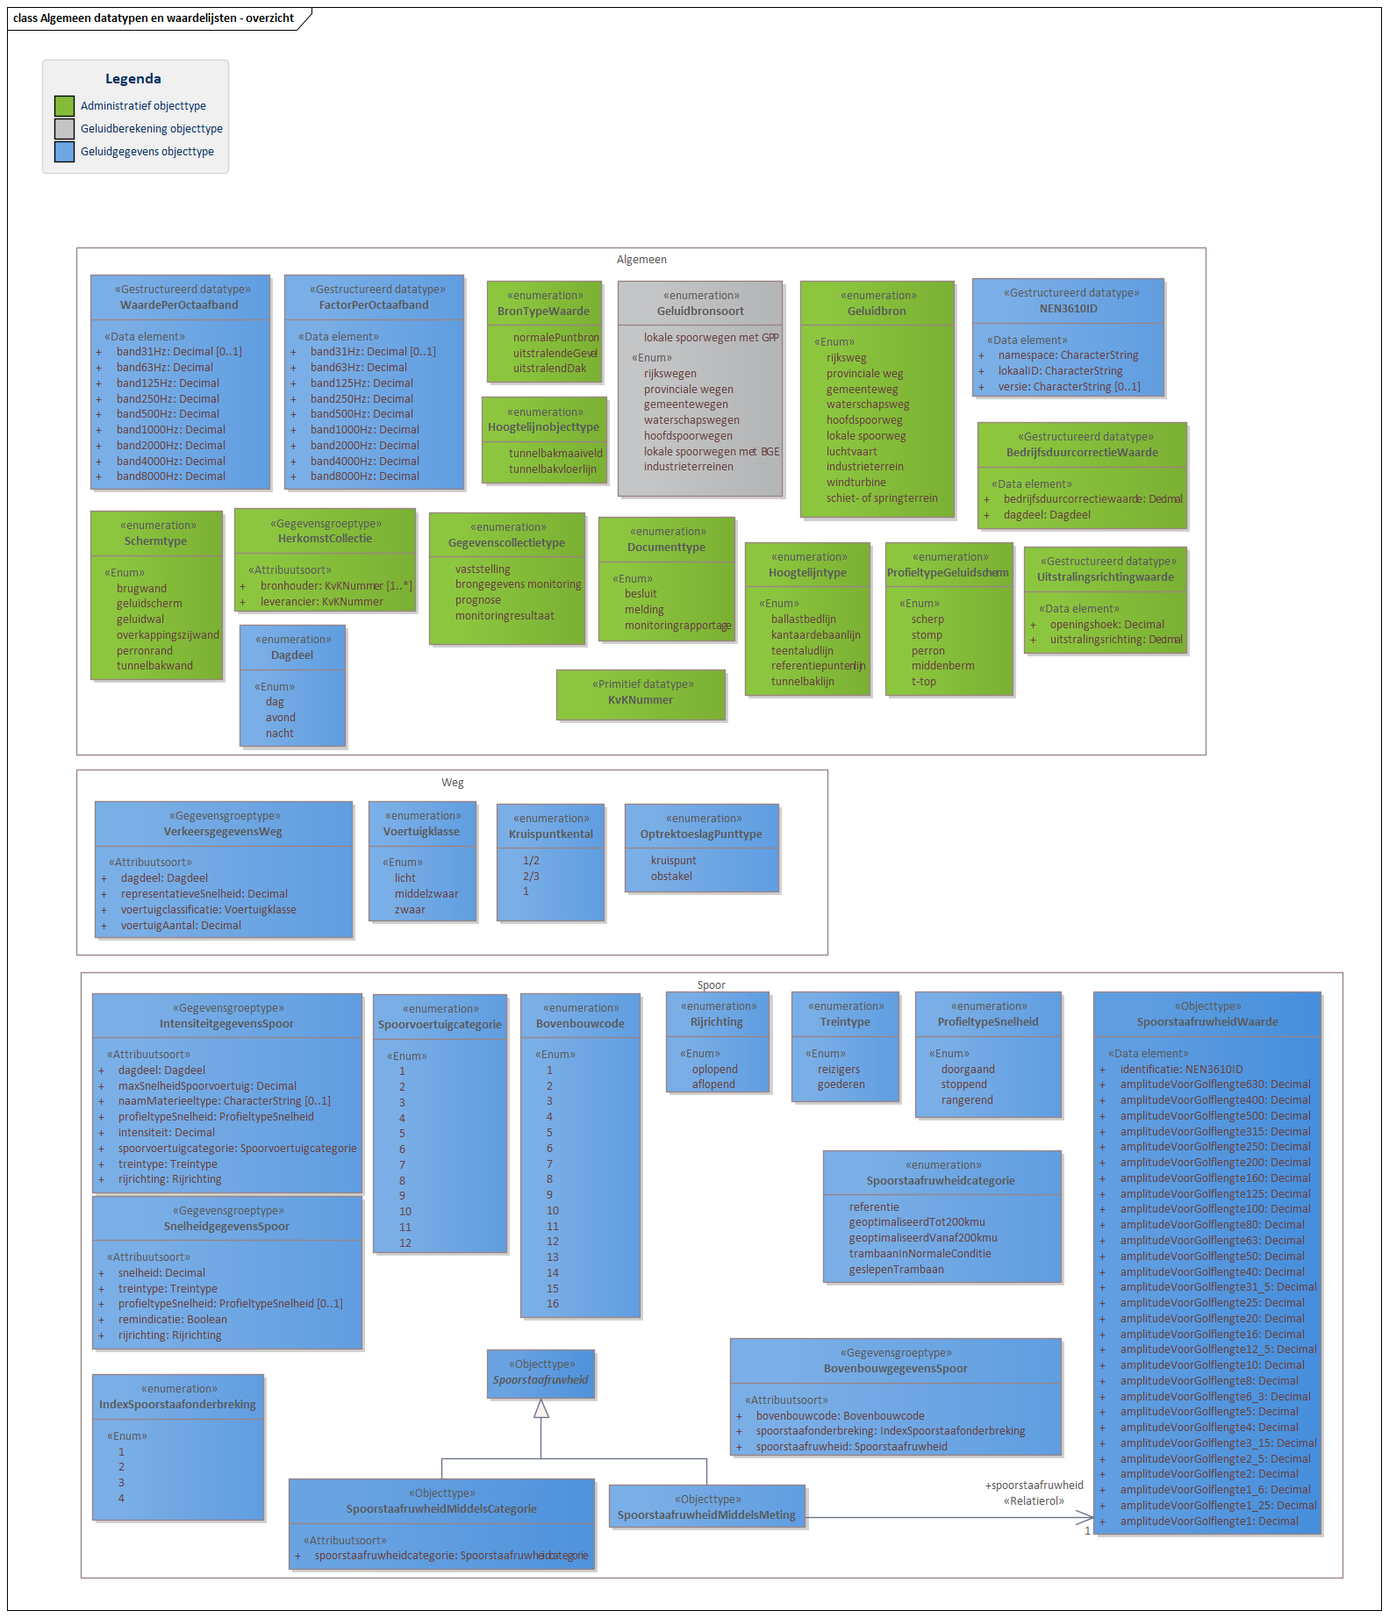
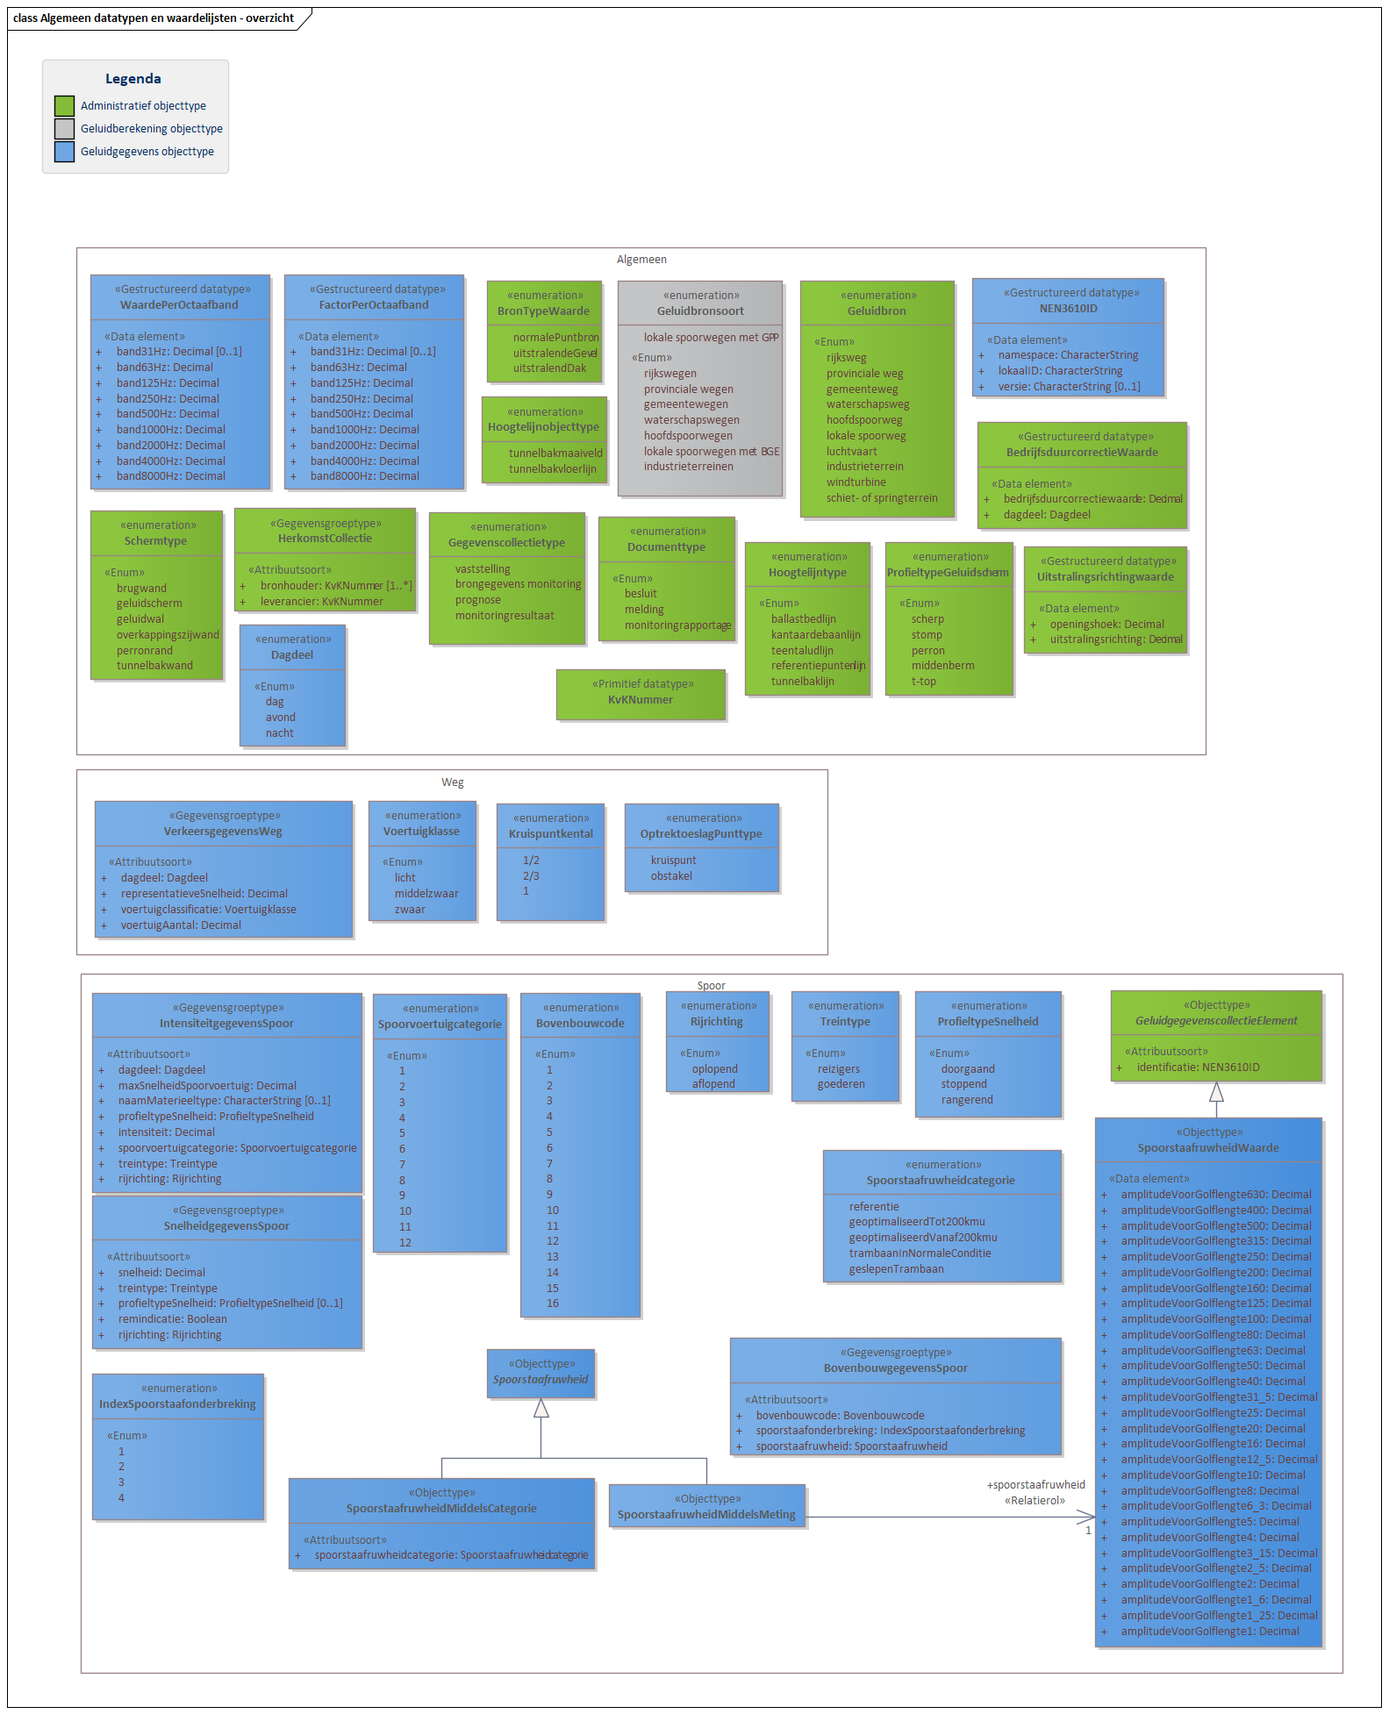
MIMLM-InformatiemodelGeluid-1.1-0-20210521-20211029-105915

diff --git a/data/IMG-cat.respec.html b/data/IMG-cat.respec.html
@@ -1,10 +1,10 @@
 
 <!DOCTYPE HTML><section id="cat" class="normative">
    <h2>Gegevensdefinitie</h2>
-   <!--MIMLM-InformatiemodelGeluid-1.1-0-20210521-20211026-174456 imvertor 1.65.2-->
+   <!--MIMLM-InformatiemodelGeluid-1.1-0-20210521-20211029-105915 imvertor 1.65.2-->
    <section id="EAID_66AE8FA2_74FC_4d4d_B2B2_249C8D6A651F">
       <h3>   Basismodel - overzicht</h3>
-      <div class="imageinfo overview"><img src="data/Images/EAID_66AE8FA2_74FC_4d4d_B2B2_249C8D6A651F.png" usemap="#imagemap-EAID_66AE8FA2_74FC_4d4d_B2B2_249C8D6A651F" alt="Diagram &#xA;                        Het Basismodel vormt de samenhang tussen alle domeinen van het IMGeluid. Alle objecttypen en relaties uit het IMGeluid komen samen in een Geluidgegevenscollectie.&#xA;                        Binnen het IMGeluid worden geluidbrongegevens die gebruikt worden voor GPP en BGE berekeningen, gemodelleerd als een Geluidemissie of Geluidoverdrachtobject. De resultaten van GPP of BGE berekeningen worden opgeslagen in een Geluidgegevenscollectie. De onderliggende juridische vastleggingen, vaststellingen, of monitoringsverslagen van deze omgevings- of monitoringswaarden, worden ook opgeslagen in dezelfde Geluidgegevenscollectie.&#xA;                        Per geluidbron per toepassing kan er een Geluidgegevenscollectie bestaan. Deze kan geassocieerd worden met maximaal 1 Geluidaandachtsgebied. Wanneer geluidgegevens met betrekking tot cumulatieberekeningen worden aangeleverd, bevat een Geluidgegevenscollectie geen Geluidaandachtsgebied.&#xA;                        &#xA;                        # test&#xA;                        &#xA;                        Klik met de rechtermuisknop op het diagram om de afbeelding op volledige grote in een nieuw tabblad te openen.&#xA;                     "><map name="imagemap-EAID_66AE8FA2_74FC_4d4d_B2B2_249C8D6A651F"><area shape="rect" alt="GeluidgegevenscollectieElement" coords="411,164,648,268" href="#graph_EAID_924BD078_D715_461a_B7E9_D7176A7406E0"><area shape="rect" alt="Monitoringresultaat" coords="664,812,943,963" href="#graph_EAID_BA00B77B_D408_4590_8185_CE59E5838F1E"><area shape="rect" alt="Basisgeluidemissieobject" coords="217,772,522,909" href="#graph_EAID_9AD15457_4880_42e5_8C72_4E5EFAC91B15"><area shape="rect" alt="Geluidproductieplafondobject" coords="1160,508,1446,772" href="#graph_EAID_237408F8_8CE9_4828_B8FB_1A5B8C917622"><area shape="rect" alt="Geluidberekeningobject" coords="678,1071,992,1271" href="#graph_EAID_97ED59FE_9FCA_49a6_8F07_214E48000B76"><area shape="rect" alt="Documentverwijzing" coords="711,391,968,566" href="#graph_EAID_7E137496_1028_4af5_9367_569358A2167B"><area shape="rect" alt="Geluidaandachtsgebied" coords="1231,284,1477,424" href="#graph_EAID_B06128AC_518C_4e26_88E5_14ED5A050A19"><area shape="rect" alt="Geluidgegevenscollectie" coords="812,68,1155,297" href="#graph_EAID_313C5AF9_49B8_4860_9E65_DE7C70084864"><area shape="rect" alt="Geluidemissieobject" coords="171,365,437,525" href="#graph_EAID_361C96BA_A638_494e_80BA_590ED481A81B"><area shape="rect" alt="Geluidoverdrachtobject" coords="197,549,476,686" href="#graph_EAID_2FEA326B_B7E7_48a4_B50F_00CCB2694677"></map><p><b>Basismodel - overzicht</b>
+      <div class="imageinfo overview"><img src="data/Images/EAID_66AE8FA2_74FC_4d4d_B2B2_249C8D6A651F.png" usemap="#imagemap-EAID_66AE8FA2_74FC_4d4d_B2B2_249C8D6A651F" alt="Diagram &#xA;                        Het Basismodel vormt de samenhang tussen alle domeinen van het IMGeluid. Alle objecttypen en relaties uit het IMGeluid komen samen in een Geluidgegevenscollectie.&#xA;                        Binnen het IMGeluid worden geluidbrongegevens die gebruikt worden voor GPP en BGE berekeningen, gemodelleerd als een Geluidemissie of Geluidoverdrachtobject. De resultaten van GPP of BGE berekeningen worden opgeslagen in een Geluidgegevenscollectie. De onderliggende juridische vastleggingen, vaststellingen, of monitoringsverslagen van deze omgevings- of monitoringswaarden, worden ook opgeslagen in dezelfde Geluidgegevenscollectie.&#xA;                        Per geluidbron per toepassing kan er een Geluidgegevenscollectie bestaan. Deze kan geassocieerd worden met maximaal 1 Geluidaandachtsgebied. Wanneer geluidgegevens met betrekking tot cumulatieberekeningen worden aangeleverd, bevat een Geluidgegevenscollectie geen Geluidaandachtsgebied.&#xA;                        &#xA;                        # test&#xA;                        &#xA;                        Klik met de rechtermuisknop op het diagram om de afbeelding op volledige grote in een nieuw tabblad te openen.&#xA;                     "><map name="imagemap-EAID_66AE8FA2_74FC_4d4d_B2B2_249C8D6A651F"><area shape="rect" alt="GeluidgegevenscollectieElement" coords="477,164,713,268" href="#graph_EAID_924BD078_D715_461a_B7E9_D7176A7406E0"><area shape="rect" alt="Monitoringresultaat" coords="730,812,1009,963" href="#graph_EAID_BA00B77B_D408_4590_8185_CE59E5838F1E"><area shape="rect" alt="Basisgeluidemissieobject" coords="283,772,588,909" href="#graph_EAID_9AD15457_4880_42e5_8C72_4E5EFAC91B15"><area shape="rect" alt="Geluidproductieplafondobject" coords="1226,508,1512,772" href="#graph_EAID_237408F8_8CE9_4828_B8FB_1A5B8C917622"><area shape="rect" alt="Geluidberekeningobject" coords="743,1071,1058,1271" href="#graph_EAID_97ED59FE_9FCA_49a6_8F07_214E48000B76"><area shape="rect" alt="Documentverwijzing" coords="776,391,1033,566" href="#graph_EAID_7E137496_1028_4af5_9367_569358A2167B"><area shape="rect" alt="Geluidaandachtsgebied" coords="1297,284,1543,424" href="#graph_EAID_B06128AC_518C_4e26_88E5_14ED5A050A19"><area shape="rect" alt="Geluidgegevenscollectie" coords="877,68,1220,297" href="#graph_EAID_313C5AF9_49B8_4860_9E65_DE7C70084864"><area shape="rect" alt="Geluidemissieobject" coords="236,365,503,525" href="#graph_EAID_361C96BA_A638_494e_80BA_590ED481A81B"><area shape="rect" alt="Geluidoverdrachtobject" coords="262,549,541,686" href="#graph_EAID_2FEA326B_B7E7_48a4_B50F_00CCB2694677"></map><p><b>Basismodel - overzicht</b>
             
             <p>Het Basismodel vormt de samenhang tussen alle domeinen van het IMGeluid. Alle objecttypen
                en relaties uit het IMGeluid komen samen in een Geluidgegevenscollectie.</p>
@@ -159,7 +159,7 @@
    </section>
    <section id="EAID_6CCCDEA4_4D5E_407f_A06B_3D2E5CD4D5B7">
       <h3>   Algemeen datatypen en waardelijsten - overzicht</h3>
-      <div class="imageinfo overview"><img src="data/Images/EAID_6CCCDEA4_4D5E_407f_A06B_3D2E5CD4D5B7.png" usemap="#imagemap-EAID_6CCCDEA4_4D5E_407f_A06B_3D2E5CD4D5B7" alt="Diagram &#xA;                        &#xA;                     "><map name="imagemap-EAID_6CCCDEA4_4D5E_407f_A06B_3D2E5CD4D5B7"><area shape="rect" alt="SpoorstaafruwheidMiddelsMeting" coords="694,1692,918,1741" href="#graph_EAID_477FC880_34DC_46fb_8ABC_1BE75029EB19"><area shape="rect" alt="SpoorstaafruwheidMiddelsCategorie" coords="329,1685,678,1789" href="#graph_EAID_26C69E60_CC91_4b9d_9835_BDCFE1B1EF21"><area shape="rect" alt="Spoorstaafruwheid" coords="555,1538,678,1594" href="#graph_EAID_0AB8B11D_AF5F_429f_95F9_D384A2349E44"><area shape="rect" alt="SpoorstaafruwheidWaarde" coords="1246,1130,1506,1749" href="#graph_EAID_E5D9E12A_27B9_417c_ABEB_2149C046EBE0"><area shape="rect" alt="Schermtype" coords="103,582,254,775" href="#graph_EAID_C9ACE184_6E2B_40c1_ACE0_A7C5EE554EF9"><area shape="rect" alt="Hoogtelijntype" coords="849,618,992,793" href="#graph_EAID_46116480_7260_453f_A7D6_80B6C72C8BDC"><area shape="rect" alt="ProfieltypeGeluidscherm" coords="1009,618,1155,793" href="#graph_EAID_F76303B4_A75E_4671_8977_C4719B32F932"><area shape="rect" alt="Hoogtelijnobjecttype" coords="549,452,692,551" href="#graph_EAID_2C63527A_74A7_4248_A10B_74D236BA4163"><area shape="rect" alt="BronTypeWaarde" coords="555,320,686,436" href="#graph_EAID_4858CC05_8BCF_466f_A2F4_B8B01BEF16A6"><area shape="rect" alt="BedrijfsduurcorrectieWaarde" coords="1114,481,1353,603" href="#graph_EAID_EC155AB1_EEFE_4a82_BEF9_003F0872B893"><area shape="rect" alt="Uitstralingsrichtingwaarde" coords="1167,623,1353,745" href="#graph_EAID_C522F5BC_D298_4887_8030_D6271385F840"><area shape="rect" alt="Kruispuntkental" coords="566,916,689,1050" href="#graph_EAID_951E9EFA_E876_44d0_B49F_86C07099E21F"><area shape="rect" alt="OptrektoeslagPunttype" coords="712,916,888,1017" href="#graph_EAID_9A9D8D19_D8A0_4241_A6F6_5B7E0D4C7E58"><area shape="rect" alt="IndexSpoorstaafonderbreking" coords="105,1566,301,1733" href="#graph_EAID_89531B10_996F_4085_93AC_36BCCB16C95D"><area shape="rect" alt="Spoorstaafruwheidcategorie" coords="938,1311,1210,1462" href="#graph_EAID_01C33249_C871_41b9_8872_4135A5E35943"><area shape="rect" alt="Voertuigklasse" coords="420,913,543,1050" href="#graph_EAID_26C18A71_6F81_4654_8495_3E28EE752A22"><area shape="rect" alt="NEN3610ID" coords="1108,317,1327,452" href="#graph_EAID_3F873D6C_1774_46ea_A631_862E358016E9"><area shape="rect" alt="Spoorvoertuigcategorie" coords="425,1133,578,1428" href="#graph_EAID_C59D8682_FC4E_4844_9466_C17945725615"><area shape="rect" alt="Bovenbouwcode" coords="593,1132,730,1502" href="#graph_EAID_E26FD10C_DEC5_4394_B498_B9522FAC3DA4"><area shape="rect" alt="Gegevenscollectietype" coords="489,584,667,735" href="#graph_EAID_B6773E1F_22D6_4682_B531_6A2D392A2B3C"><area shape="rect" alt="Documenttype" coords="682,589,838,731" href="#graph_EAID_30A82434_4787_4191_A68D_023591D3D78E"><area shape="rect" alt="Dagdeel" coords="273,712,394,851" href="#graph_EAID_00122B9B_F5D7_4dbc_8F39_D0F426DF8C39"><area shape="rect" alt="BovenbouwgegevensSpoor" coords="832,1525,1210,1659" href="#graph_EAID_B5BBEDFE_C275_4c9f_BFF4_0440A0F7820B"><area shape="rect" alt="HerkomstCollectie" coords="267,579,474,697" href="#graph_EAID_0CBE6FF8_C5CF_452f_A268_2364394E4268"><area shape="rect" alt="ProfieltypeSnelheid" coords="1043,1130,1210,1274" href="#graph_EAID_2890B73C_6675_493b_8DE3_B0E30C61DBD1"><area shape="rect" alt="Treintype" coords="902,1130,1025,1256" href="#graph_EAID_11918723_A26B_4cbd_BC37_F6914A4A4A4E"><area shape="rect" alt="Rijrichting" coords="759,1130,877,1245" href="#graph_EAID_91B9181F_C621_4819_83E0_1A31A9EBCF7F"><area shape="rect" alt="IntensiteitgegevensSpoor" coords="105,1132,413,1360" href="#graph_EAID_5FFCEE29_DD71_45db_926C_AB9A7E8677F3"><area shape="rect" alt="SnelheidgegevensSpoor" coords="105,1363,413,1538" href="#graph_EAID_00CB7C0F_9A33_426c_90AE_DAAF97D29F7F"><area shape="rect" alt="VerkeersgegevensWeg" coords="108,913,402,1069" href="#graph_EAID_A5AB50E8_5A98_4426_A89E_F5C9D91CF6F8"><area shape="rect" alt="FactorPerOctaafband" coords="324,313,529,558" href="#graph_EAID_2E128FCF_DE66_4517_86D2_331E9E0C46EE"><area shape="rect" alt="WaardePerOctaafband" coords="103,313,308,558" href="#graph_EAID_7AE14E60_44F9_4af5_A8D1_D005D44A25BE"><area shape="rect" alt="Geluidbron" coords="912,320,1088,590" href="#graph_EAID_6FABE66F_BDF5_4771_AEE2_5B9B0C9199C2"><area shape="rect" alt="Geluidbronsoort" coords="704,320,892,566" href="#graph_EAID_16AB414E_37DD_460d_AEAE_00A62748E617"></map><p><b>Algemeen datatypen en waardelijsten - overzicht</b></p>
+      <div class="imageinfo overview"><img src="data/Images/EAID_6CCCDEA4_4D5E_407f_A06B_3D2E5CD4D5B7.png" usemap="#imagemap-EAID_6CCCDEA4_4D5E_407f_A06B_3D2E5CD4D5B7" alt="Diagram &#xA;                        &#xA;                     "><map name="imagemap-EAID_6CCCDEA4_4D5E_407f_A06B_3D2E5CD4D5B7"><area shape="rect" alt="GeluidgegevenscollectieElement" coords="1266,1129,1507,1233" href="#graph_EAID_924BD078_D715_461a_B7E9_D7176A7406E0"><area shape="rect" alt="SpoorstaafruwheidMiddelsMeting" coords="694,1692,918,1741" href="#graph_EAID_477FC880_34DC_46fb_8ABC_1BE75029EB19"><area shape="rect" alt="SpoorstaafruwheidMiddelsCategorie" coords="329,1685,678,1789" href="#graph_EAID_26C69E60_CC91_4b9d_9835_BDCFE1B1EF21"><area shape="rect" alt="Spoorstaafruwheid" coords="555,1538,678,1594" href="#graph_EAID_0AB8B11D_AF5F_429f_95F9_D384A2349E44"><area shape="rect" alt="SpoorstaafruwheidWaarde" coords="1248,1274,1507,1878" href="#graph_EAID_E5D9E12A_27B9_417c_ABEB_2149C046EBE0"><area shape="rect" alt="Schermtype" coords="103,582,254,775" href="#graph_EAID_C9ACE184_6E2B_40c1_ACE0_A7C5EE554EF9"><area shape="rect" alt="Hoogtelijntype" coords="849,618,992,793" href="#graph_EAID_46116480_7260_453f_A7D6_80B6C72C8BDC"><area shape="rect" alt="ProfieltypeGeluidscherm" coords="1009,618,1155,793" href="#graph_EAID_F76303B4_A75E_4671_8977_C4719B32F932"><area shape="rect" alt="Hoogtelijnobjecttype" coords="549,452,692,551" href="#graph_EAID_2C63527A_74A7_4248_A10B_74D236BA4163"><area shape="rect" alt="BronTypeWaarde" coords="555,320,686,436" href="#graph_EAID_4858CC05_8BCF_466f_A2F4_B8B01BEF16A6"><area shape="rect" alt="BedrijfsduurcorrectieWaarde" coords="1114,481,1353,603" href="#graph_EAID_EC155AB1_EEFE_4a82_BEF9_003F0872B893"><area shape="rect" alt="Uitstralingsrichtingwaarde" coords="1167,623,1353,745" href="#graph_EAID_C522F5BC_D298_4887_8030_D6271385F840"><area shape="rect" alt="Kruispuntkental" coords="566,916,689,1050" href="#graph_EAID_951E9EFA_E876_44d0_B49F_86C07099E21F"><area shape="rect" alt="OptrektoeslagPunttype" coords="712,916,888,1017" href="#graph_EAID_9A9D8D19_D8A0_4241_A6F6_5B7E0D4C7E58"><area shape="rect" alt="IndexSpoorstaafonderbreking" coords="105,1566,301,1733" href="#graph_EAID_89531B10_996F_4085_93AC_36BCCB16C95D"><area shape="rect" alt="Spoorstaafruwheidcategorie" coords="938,1311,1210,1462" href="#graph_EAID_01C33249_C871_41b9_8872_4135A5E35943"><area shape="rect" alt="Voertuigklasse" coords="420,913,543,1050" href="#graph_EAID_26C18A71_6F81_4654_8495_3E28EE752A22"><area shape="rect" alt="NEN3610ID" coords="1108,317,1327,452" href="#graph_EAID_3F873D6C_1774_46ea_A631_862E358016E9"><area shape="rect" alt="Spoorvoertuigcategorie" coords="425,1133,578,1428" href="#graph_EAID_C59D8682_FC4E_4844_9466_C17945725615"><area shape="rect" alt="Bovenbouwcode" coords="593,1132,730,1502" href="#graph_EAID_E26FD10C_DEC5_4394_B498_B9522FAC3DA4"><area shape="rect" alt="Gegevenscollectietype" coords="489,584,667,735" href="#graph_EAID_B6773E1F_22D6_4682_B531_6A2D392A2B3C"><area shape="rect" alt="Documenttype" coords="682,589,838,731" href="#graph_EAID_30A82434_4787_4191_A68D_023591D3D78E"><area shape="rect" alt="Dagdeel" coords="273,712,394,851" href="#graph_EAID_00122B9B_F5D7_4dbc_8F39_D0F426DF8C39"><area shape="rect" alt="BovenbouwgegevensSpoor" coords="832,1525,1210,1659" href="#graph_EAID_B5BBEDFE_C275_4c9f_BFF4_0440A0F7820B"><area shape="rect" alt="HerkomstCollectie" coords="267,579,474,697" href="#graph_EAID_0CBE6FF8_C5CF_452f_A268_2364394E4268"><area shape="rect" alt="ProfieltypeSnelheid" coords="1043,1130,1210,1274" href="#graph_EAID_2890B73C_6675_493b_8DE3_B0E30C61DBD1"><area shape="rect" alt="Treintype" coords="902,1130,1025,1256" href="#graph_EAID_11918723_A26B_4cbd_BC37_F6914A4A4A4E"><area shape="rect" alt="Rijrichting" coords="759,1130,877,1245" href="#graph_EAID_91B9181F_C621_4819_83E0_1A31A9EBCF7F"><area shape="rect" alt="IntensiteitgegevensSpoor" coords="105,1132,413,1360" href="#graph_EAID_5FFCEE29_DD71_45db_926C_AB9A7E8677F3"><area shape="rect" alt="SnelheidgegevensSpoor" coords="105,1363,413,1538" href="#graph_EAID_00CB7C0F_9A33_426c_90AE_DAAF97D29F7F"><area shape="rect" alt="VerkeersgegevensWeg" coords="108,913,402,1069" href="#graph_EAID_A5AB50E8_5A98_4426_A89E_F5C9D91CF6F8"><area shape="rect" alt="FactorPerOctaafband" coords="324,313,529,558" href="#graph_EAID_2E128FCF_DE66_4517_86D2_331E9E0C46EE"><area shape="rect" alt="WaardePerOctaafband" coords="103,313,308,558" href="#graph_EAID_7AE14E60_44F9_4af5_A8D1_D005D44A25BE"><area shape="rect" alt="Geluidbron" coords="912,320,1088,590" href="#graph_EAID_6FABE66F_BDF5_4771_AEE2_5B9B0C9199C2"><area shape="rect" alt="Geluidbronsoort" coords="704,320,892,566" href="#graph_EAID_16AB414E_37DD_460d_AEAE_00A62748E617"></map><p><b>Algemeen datatypen en waardelijsten - overzicht</b></p>
       </div>
    </section>
    <section id="">
@@ -7075,16 +7075,6 @@
                </tr>
                <tr>
                   <td>
-                     <a class="link" href="#detail_attribute_IMGeluidAlgemeen_SpoorstaafruwheidWaarde_identificatie">identificatie</a>
-                     </td>
-                  <td></td>
-                  <td>
-                     <a class="link" href="#global_class_IMGeluidAlgemeen_NEN3610ID">NEN3610ID</a>
-                     </td>
-                  <td>1</td>
-               </tr>
-               <tr>
-                  <td>
                      <a class="link" href="#detail_attribute_IMGeluidAlgemeen_SpoorstaafruwheidWaarde_amplitudeVoorGolflengte630">amplitudeVoorGolflengte630</a>
                      </td>
                   <td>
@@ -7488,6 +7478,20 @@
                      [ 1 ]
                      </td>
                   <td></td>
+               </tr>
+               <tr>
+                  <td>
+                     SpoorstaafruwheidWaarde
+                     is specialisatie van
+                     
+                     <a class="link" href="#global_class_IMGeluidAlgemeen_GeluidgegevenscollectieElement">GeluidgegevenscollectieElement</a>
+                     
+                     </td>
+                  <td>
+                     
+                     <p>Basiselement om aan te geven dat een object deel kan uitmaken van een Geluidgegevenscollectie.
+                        </p>
+                     </td>
                </tr>
             </tbody>
          </table>
@@ -21402,34 +21406,6 @@
             </section>
          <a class="anchor" id="detail_class_IMGeluidAlgemeen_SpoorstaafruwheidWaarde"></a><section id="detail_class_IMGeluidAlgemeen_SpoorstaafruwheidWaarde">
             <h5>   SpoorstaafruwheidWaarde</h5>
-            <a class="anchor" id="detail_attribute_IMGeluidAlgemeen_SpoorstaafruwheidWaarde_identificatie"></a><section id="detail_attribute_IMGeluidAlgemeen_SpoorstaafruwheidWaarde_identificatie">
-               <h6>Data element  <a href="#global_class_IMGeluidAlgemeen_SpoorstaafruwheidWaarde">SpoorstaafruwheidWaarde</a> identificatie</h6>
-               
-               <table style="width: 100%;">
-                  <colgroup style="width: 30%;"></colgroup>
-                  <colgroup style="width: 70%;"></colgroup>
-                  <tbody>
-                     <tr>
-                        <th>Naam</th>
-                        <td>identificatie</td>
-                     </tr>
-                     <tr>
-                        <th>Toelichting</th>
-                        <td>Een inhoudelijke toelichting op de toepassing van het informatie-element.</td>
-                     </tr>
-                     <tr>
-                        <th>Kardinaliteit</th>
-                        <td>1</td>
-                     </tr>
-                     <tr>
-                        <th>Type</th>
-                        <td>
-                           <a class="link" href="#detail_class_IMGeluidAlgemeen_NEN3610ID">NEN3610ID</a>
-                           </td>
-                     </tr>
-                  </tbody>
-               </table>
-               </section>
             <a class="anchor" id="detail_attribute_IMGeluidAlgemeen_SpoorstaafruwheidWaarde_amplitudeVoorGolflengte630"></a><section id="detail_attribute_IMGeluidAlgemeen_SpoorstaafruwheidWaarde_amplitudeVoorGolflengte630">
                <h6>Data element  <a href="#global_class_IMGeluidAlgemeen_SpoorstaafruwheidWaarde">SpoorstaafruwheidWaarde</a> amplitudeVoorGolflengte630</h6>
                
@@ -25057,7 +25033,7 @@
 </section>
 <section id="lis" class="normative">
    <h2>Inhoud van waardenlijsten</h2>
-   <!--MIMLM-InformatiemodelGeluid-1.1-0-20210521-20211026-174456 imvertor 1.65.2--><a class="anchor" id="graph_EAID_C9ACE184_6E2B_40c1_ACE0_A7C5EE554EF9"></a><a class="anchor" id="detail_class_IMGeluidAlgemeen_Schermtype"></a><section id="detail_class_IMGeluidAlgemeen_Schermtype">
+   <!--MIMLM-InformatiemodelGeluid-1.1-0-20210521-20211029-105915 imvertor 1.65.2--><a class="anchor" id="graph_EAID_C9ACE184_6E2B_40c1_ACE0_A7C5EE554EF9"></a><a class="anchor" id="detail_class_IMGeluidAlgemeen_Schermtype"></a><section id="detail_class_IMGeluidAlgemeen_Schermtype">
       <h3>Enumeratie details  Schermtype</h3>
       
       <table style="width: 100%;" class="list">
